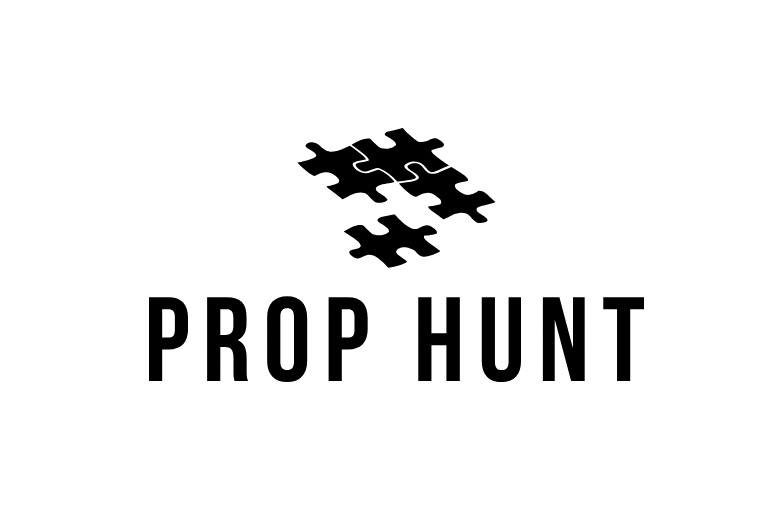
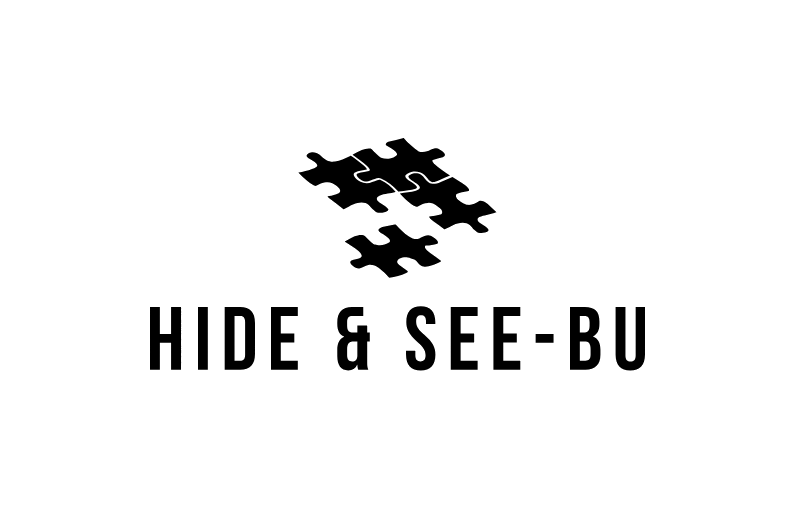
More Projects

Changed region(s): [[0.1839, 0.5588, 0.8276, 0.7647], [0.3678, 0.2353, 0.6437, 0.5588]]

diff --git a/Tempo Trigger/Tempo-Trigger.html b/Tempo Trigger/Tempo-Trigger.html
@@ -4,7 +4,7 @@
 <head>
     <meta charset="UTF-8">
     <meta name="viewport" content="width=device-width, initial-scale=1.0">
-    <title>Document</title>
+    <title>Amro Ahmed</title>
     <link rel="stylesheet" href="../CSS/homePage.css">
     <script type="module"> import { loadNavbar } from "../JavaScript/navigationBar.js"
         loadNavbar("Home")
@@ -59,17 +59,16 @@
 
                 </div>
                 <div class="project-description item">
-                    <h1 id="project-heading">Mlungisi Foundation</h1>
+                    <h1 id="project-heading">Tempo Trigger</h1>
                     <p>
-                        The Mlungisi corporation is dedicated to creating inclusive, gamified educational experiences
-                        tailored to
-                        neurodivergent learners. By leveraging individual strengths, we aim to make learning accessible,
-                        engaging, and empowering for all.
+                        A high-octane rhythm-based FPS where players shoot, dash, and use consumables on beat to take
+                        down enemies and face an epic final boss. The game combines fast-paced combat with music-driven
+                        mechanics for a thrilling experience.
                     </p>
                     <div class="project-properties">
-                        <div id="project-role" class="project-property">Role: <br> Game Developer</div>
-                        <div id="project-type" class="project-property">Type: <br> Non Goverment Organization</div>
-                        <div id="project-date" class="project-property">Date: <br> 2024-</div>
+                        <div id="project-role" class="project-property">Role: <br> UI Designer & Programmer</div>
+                        <div id="project-type" class="project-property">Type: <br> Game</div>
+                        <div id="project-date" class="project-property">Date: <br> 2024</div>
                     </div>
                 </div>
             </div>
@@ -79,26 +78,27 @@
             </div>
             <div id="project-breakdown">
                 <h1 id="breakdown-heading">Project Breakdown</h1>
-                <p>
-                    The corporation was founded by my friend, Sipesihle Sibeko, with a bold vision: to create gamified
-                    educational experiences tailored specifically for neurodivergent learners. Recognizing the untapped
-                    potential of learners with ADHD, autism, dyslexia, dyspraxia, and other conditions, the corporation
-                    is driven by a mission to make education both inclusive and engaging. By focusing on individual
-                    strengths and leveraging Howard Gardner’s Multiple Intelligences Theory, we develop games that not
-                    only teach but empower. Whether it’s using rhythm to teach math or interactive puzzles to foster
-                    problem-solving, the goal is to create meaningful, strength-based learning experiences.
+                <p>    
+                    This rhythm-based FPS challenges players to synchronize their actions with a driving musical beat.
+                    Inspired by titles like BPM: Bullets Per Minute and DOOM Eternal, the game combines intense, fast-paced
+                    combat with rhythm mechanics, creating a unique experience where every shot, dash, and grenade throw
+                    must be perfectly timed. The result is a seamless fusion of gameplay and soundtrack, ensuring that each
+                    encounter feels dynamic and rewarding.
                 </p>
                 <p>
-                    As part of the team, I play a key role in shaping the direction and design of our games. My
-                    responsibilities include conceptualizing gameplay mechanics that align with each intelligence
-                    category, designing intuitive user interfaces, and ensuring our games are accessible to diverse
-                    players. I also collaborate on research efforts to gather insights from neurodivergent individuals,
-                    ensuring our designs are informed by real experiences. Working alongside Sipesihle and the rest of
-                    the team, I’m proud to contribute my skills in game development and my passion for inclusivity to a
-                    project that aims to redefine what education can look like for all minds. Together, we are building
-                    a platform where neurodivergent learners can thrive, one game at a time.
+                    The game focuses on delivering a polished single-level experience, featuring handcrafted environments,
+                    meticulously designed enemy patterns, and a climactic boss battle. Players utilize a variety of weapons,
+                    consumables, and abilities to take down rhythmically synced enemies while adapting to an ever-evolving
+                    battlefield. The progression system encourages strategic decision-making as players manage their health,
+                    ammo, and upgrades in the heat of battle.
                 </p>
-                <button id="work-with-us-button" class="buttons"><span>Work with us</span></button>
+                <p>
+                    With its vibrant visuals, immersive sound design, and tightly integrated rhythm mechanics, the game
+                    immerses players in a pulse-pounding journey where every beat matters. This project exemplifies a
+                    dedication to creative game design, blending music, movement, and mechanics into an exhilarating
+                    experience.
+                </p>
+                <button id="download-button" class="buttons"><span>Download Game</span></button>
             </div>
         </section>
     </main>

diff --git a/Hide And See-bu/Hide-And-See-bu.html b/Hide And See-bu/Hide-And-See-bu.html
@@ -4,7 +4,7 @@
 <head>
     <meta charset="UTF-8">
     <meta name="viewport" content="width=device-width, initial-scale=1.0">
-    <title>Document</title>
+    <title>Amro Ahmed</title>
     <link rel="stylesheet" href="../CSS/homePage.css">
     <script type="module"> import { loadNavbar } from "../JavaScript/navigationBar.js"
         loadNavbar("Home")
@@ -59,17 +59,15 @@
 
                 </div>
                 <div class="project-description item">
-                    <h1 id="project-heading">Mlungisi Foundation</h1>
+                    <h1 id="project-heading">Hide & See-bu</h1>
                     <p>
-                        The Mlungisi corporation is dedicated to creating inclusive, gamified educational experiences
-                        tailored to
-                        neurodivergent learners. By leveraging individual strengths, we aim to make learning accessible,
-                        engaging, and empowering for all.
+                        "Hide & See-bu" is a prop hunt game where players analyze the map, hide as props, and seek each
+                        other in a thrilling game of deception and observation.
                     </p>
                     <div class="project-properties">
-                        <div id="project-role" class="project-property">Role: <br> Game Developer</div>
-                        <div id="project-type" class="project-property">Type: <br> Non Goverment Organization</div>
-                        <div id="project-date" class="project-property">Date: <br> 2024-</div>
+                        <div id="project-role" class="project-property">Role: <br> UI Designer & Programmer</div>
+                        <div id="project-type" class="project-property">Type: <br> Game</div>
+                        <div id="project-date" class="project-property">Date: <br> 2023</div>
                     </div>
                 </div>
             </div>
@@ -80,25 +78,25 @@
             <div id="project-breakdown">
                 <h1 id="breakdown-heading">Project Breakdown</h1>
                 <p>
-                    The corporation was founded by my friend, Sipesihle Sibeko, with a bold vision: to create gamified
-                    educational experiences tailored specifically for neurodivergent learners. Recognizing the untapped
-                    potential of learners with ADHD, autism, dyslexia, dyspraxia, and other conditions, the corporation
-                    is driven by a mission to make education both inclusive and engaging. By focusing on individual
-                    strengths and leveraging Howard Gardner’s Multiple Intelligences Theory, we develop games that not
-                    only teach but empower. Whether it’s using rhythm to teach math or interactive puzzles to foster
-                    problem-solving, the goal is to create meaningful, strength-based learning experiences.
+                    "Hide & See-bu" is an inventive take on the classic prop hunt genre, designed to test players'
+                    observation, memory, and strategic thinking. The game begins with a 30-second preparation phase
+                    where all players can freely explore and analyze the map. During this time, the hider gets a chance
+                    to memorize potential hiding spots and objects in the environment, setting the stage for creative
+                    and convincing disguises.
                 </p>
                 <p>
-                    As part of the team, I play a key role in shaping the direction and design of our games. My
-                    responsibilities include conceptualizing gameplay mechanics that align with each intelligence
-                    category, designing intuitive user interfaces, and ensuring our games are accessible to diverse
-                    players. I also collaborate on research efforts to gather insights from neurodivergent individuals,
-                    ensuring our designs are informed by real experiences. Working alongside Sipesihle and the rest of
-                    the team, I’m proud to contribute my skills in game development and my passion for inclusivity to a
-                    project that aims to redefine what education can look like for all minds. Together, we are building
-                    a platform where neurodivergent learners can thrive, one game at a time.
+                    When the hiding phase begins, the hider selects a prop to blend seamlessly into the surroundings.
+                    Meanwhile, the seeker prepares to locate the hider using sharp observational skills and a keen
+                    memory of the map’s layout. Each round is a battle of wits, with the hider relying on stealth and
+                    creativity while the seeker employs deduction and strategy to win.
                 </p>
-                <button id="work-with-us-button" class="buttons"><span>Work with us</span></button>
+                <p>
+                    With its emphasis on adaptability and psychological gameplay, Hide & See-bu offers players a highly
+                    engaging experience that evolves with every match. Its dynamic blend of hide-and-seek mechanics and
+                    player-driven creativity ensures fun for all, making it a standout addition to any multiplayer game
+                    library.
+                </p>
+                <button id="download-button" class="buttons"><span>Download Game</span></button>
             </div>
         </section>
     </main>

diff --git a/Smash Botato/Smash-Botato.html b/Smash Botato/Smash-Botato.html
@@ -4,7 +4,7 @@
 <head>
     <meta charset="UTF-8">
     <meta name="viewport" content="width=device-width, initial-scale=1.0">
-    <title>Document</title>
+    <title>Amro Ahmed</title>
     <link rel="stylesheet" href="../CSS/homePage.css">
     <script type="module"> import { loadNavbar } from "../JavaScript/navigationBar.js"
         loadNavbar("Home")
@@ -59,17 +59,15 @@
 
                 </div>
                 <div class="project-description item">
-                    <h1 id="project-heading">Mlungisi Foundation</h1>
+                    <h1 id="project-heading">Smash Botato</h1>
                     <p>
-                        The Mlungisi corporation is dedicated to creating inclusive, gamified educational experiences
-                        tailored to
-                        neurodivergent learners. By leveraging individual strengths, we aim to make learning accessible,
-                        engaging, and empowering for all.
+                        "Smash Botato" is a quirky game where players mash potatoes while avoiding bombs, designed to
+                        test how different background music affects player performance.
                     </p>
                     <div class="project-properties">
-                        <div id="project-role" class="project-property">Role: <br> Game Developer</div>
-                        <div id="project-type" class="project-property">Type: <br> Non Goverment Organization</div>
-                        <div id="project-date" class="project-property">Date: <br> 2024-</div>
+                        <div id="project-role" class="project-property">Role: <br> Designer & Developer</div>
+                        <div id="project-type" class="project-property">Type: <br> Game</div>
+                        <div id="project-date" class="project-property">Date: <br> 2024</div>
                     </div>
                 </div>
             </div>
@@ -80,25 +78,24 @@
             <div id="project-breakdown">
                 <h1 id="breakdown-heading">Project Breakdown</h1>
                 <p>
-                    The corporation was founded by my friend, Sipesihle Sibeko, with a bold vision: to create gamified
-                    educational experiences tailored specifically for neurodivergent learners. Recognizing the untapped
-                    potential of learners with ADHD, autism, dyslexia, dyspraxia, and other conditions, the corporation
-                    is driven by a mission to make education both inclusive and engaging. By focusing on individual
-                    strengths and leveraging Howard Gardner’s Multiple Intelligences Theory, we develop games that not
-                    only teach but empower. Whether it’s using rhythm to teach math or interactive puzzles to foster
-                    problem-solving, the goal is to create meaningful, strength-based learning experiences.
+                    "Smash Botato" is a fun and fast-paced game where players mash potatoes as they move across the
+                    screen, while also avoiding the occasional bomb that appears. With its simple yet engaging
+                    mechanics, the game challenges players to maintain focus and rhythm as the intensity ramps up.
                 </p>
                 <p>
-                    As part of the team, I play a key role in shaping the direction and design of our games. My
-                    responsibilities include conceptualizing gameplay mechanics that align with each intelligence
-                    category, designing intuitive user interfaces, and ensuring our games are accessible to diverse
-                    players. I also collaborate on research efforts to gather insights from neurodivergent individuals,
-                    ensuring our designs are informed by real experiences. Working alongside Sipesihle and the rest of
-                    the team, I’m proud to contribute my skills in game development and my passion for inclusivity to a
-                    project that aims to redefine what education can look like for all minds. Together, we are building
-                    a platform where neurodivergent learners can thrive, one game at a time.
+                    Developed as part of a game design project, Smash Botato explores the psychological effects of music
+                    on player performance. The game features two iterations, each paired with a distinct background
+                    soundtrack. One iteration uses tension-eliciting music to create a sense of suspense, while the
+                    other incorporates energetic music to boost motivation and engagement. This dual-mode gameplay
+                    allows players to experience firsthand how music can influence their reaction times and
+                    decision-making under pressure.
                 </p>
-                <button id="work-with-us-button" class="buttons"><span>Work with us</span></button>
+                <p>
+                    With its blend of lighthearted visuals and intriguing research-based design, Smash Botato serves as
+                    both a delightful gaming experience and an insightful exploration of the interplay between music and
+                    player psychology.
+                </p>
+                <button id="download-button" class="buttons"><span>Download Game</span></button>
             </div>
         </section>
     </main>

diff --git a/Ferrari Website/Ferrari-Website.html b/Ferrari Website/Ferrari-Website.html
@@ -56,13 +56,13 @@
                     <svg id="visual-display" viewBox="0 0 200 200" width="200" height="200">
                         <circle id="circle" cx="100" cy="100" r="30" fill="rgb(32, 31, 31)" />
                     </svg>
-                                                        
+
                 </div>
                 <div class="project-description item">
                     <h1 id="project-heading">Ferrari Website</h1>
-                    <p>Lorem ipsum dolor sit amet consectetur adipisicing elit. Dolorum amet atque rem sed, at adipisci
-                        nihil labore repellat dolor eos est libero incidunt ducimus assumenda qui quasi vitae omnis
-                        nemo?
+                    <p>
+                        A dynamic Ferrari-themed digital showroom featuring interactive galleries, data visualizations,
+                        and user-friendly design to explore Ferrari models and their performance.
                     </p>
                     <div class="project-properties">
                         <div id="project-role" class="project-property">Role: <br> Designer & Developer</div>
@@ -75,23 +75,24 @@
             <div id="scroll-text">
                 Scroll
             </div>
-            <div id="project-breakdown">    
-                <h1 id="breakdown-heading">Beaksd</h1>
+            <div id="project-breakdown">
+                <h1 id="breakdown-heading">Project Breakdown</h1>
                 <p>
-                    Lorem ipsum dolor, sit amet consectetur adipisicing elit. Hic ea sed voluptate tempore sequi expedita
-                    quod, numquam iusto accusamus pariatur maxime vel blanditiis ducimus quibusdam quis dolorem
-                    reprehenderit quasi voluptates!
+                    This Ferrari-themed website is a digital showroom created as part of a course project to explore the
+                    integration of APIs and the effective visualization of data. The project showcases Ferrari's iconic
+                    models, combining sleek design with interactivity to deliver an engaging user experience. Visitors
+                    can explore a detailed gallery of Ferrari vehicles, enhanced with animations and data
+                    visualizations, such as price trends and performance metrics, to provide a comprehensive view of the
+                    brand's legacy and innovation.
                 </p>
                 <p>
-                    Lorem ipsum dolor, sit amet consectetur adipisicing elit. Hic ea sed voluptate tempore sequi expedita
-                    quod, numquam iusto accusamus pariatur maxime vel blanditiis ducimus quibusdam quis dolorem
-                    reprehenderit quasi voluptates!
+                    The design focuses on both aesthetic and functional excellence, with a clean layout that mirrors
+                    Ferrari’s elegance and precision. Beyond technical execution, the site reflects an understanding of
+                    user experience, offering intuitive navigation and seamless interactivity. This project highlights
+                    the application of foundational web development concepts while demonstrating the power of
+                    data-driven design to enhance storytelling and engagement.
                 </p>
-                <p>
-                    Lorem ipsum dolor, sit amet consectetur adipisicing elit. Hic ea sed voluptate tempore sequi expedita
-                    quod, numquam iusto accusamus pariatur maxime vel blanditiis ducimus quibusdam quis dolorem
-                    reprehenderit quasi voluptates!
-                </p>
+                <button id="view-website-button" class="buttons"><span>View Website</span></button>
             </div>
         </section>
     </main>

diff --git a/CSS/projectDisplay.css b/CSS/projectDisplay.css
@@ -72,3 +72,50 @@
     margin-bottom: 0;
     margin-top: 0;
 }
+
+#project-breakdown p{
+    font-size: 1.2vw;
+}
+
+
+.buttons {
+    width: 10vw;
+    height: 7vh;
+    border-radius: 20px;
+    border: none;
+    position: relative;
+    overflow: hidden;
+    background-color: #939393; 
+    color: black; 
+    transition: color 0.5s ease;
+}
+
+.buttons::before {
+    content: '';
+    position: absolute;
+    top: 0;
+    left: 0;
+    width: 100%;
+    height: 100%;
+    background: linear-gradient(45deg, #ffffff, #c5bdbd);
+    transform: translateX(-100%);
+    transition: transform 0.5s ease;
+    z-index: 0;
+}
+
+.buttons:hover::before {
+    transform: translateX(0);
+}
+
+.buttons:hover {
+    color: rgb(0, 0, 0); 
+    cursor: pointer;
+    background-color: #919191; 
+    z-index: 1;
+}
+
+.buttons span {
+    position: relative;
+    z-index: 1; 
+    font-size: 0.9vw;
+}

diff --git a/index.html b/index.html
@@ -4,7 +4,7 @@
 <head>
     <meta charset="UTF-8">
     <meta name="viewport" content="width=device-width, initial-scale=1.0">
-    <title>Projects</title>
+    <title>Amro Ahmed</title>
     <link rel="stylesheet" href="./CSS/homePage.css">
     <script type="module"> import { loadNavbar } from "../JavaScript/navigationBar.js"
         loadNavbar("Projects")
